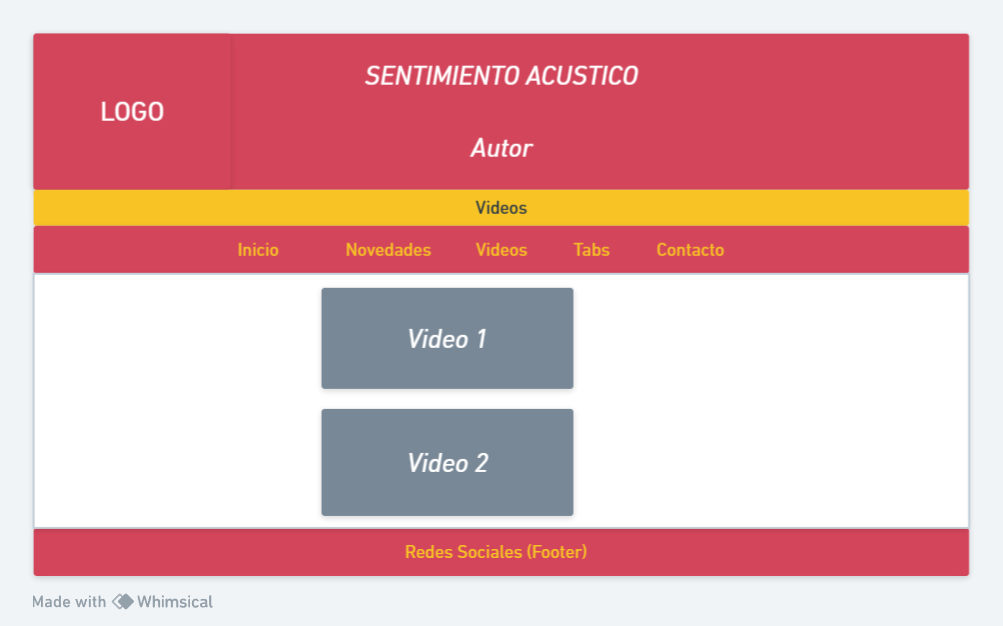
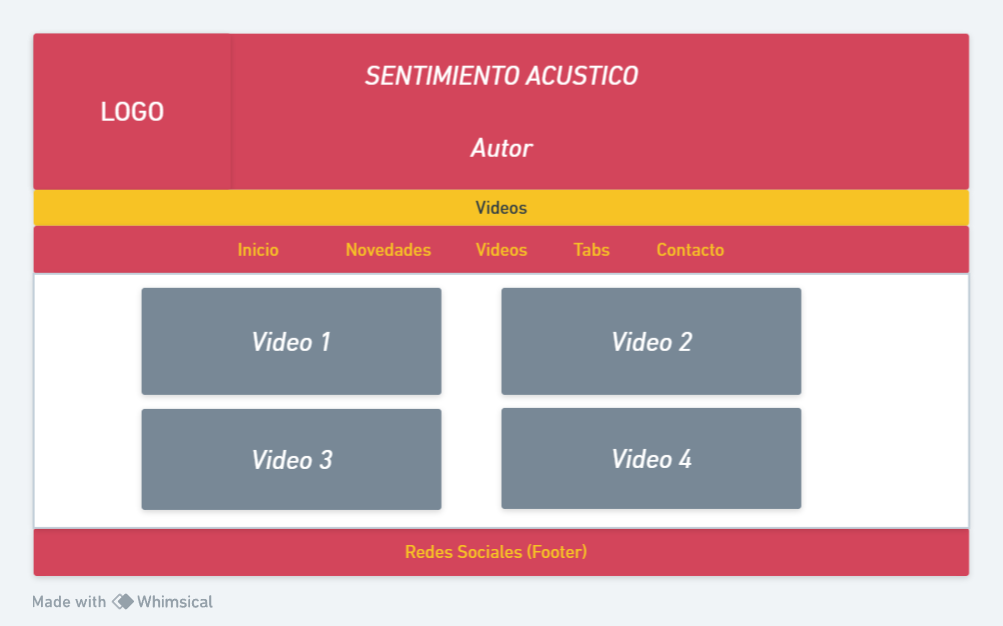
Quite espacios en blanco de entremedio

Changed region(s): [[0.1236, 0.4553, 0.8036, 0.8498]]

diff --git a/pages/Novedades.html b/pages/Novedades.html
@@ -17,12 +17,11 @@
         </a>
         <h1>Sentimiento Acustico</h1>
     </header>
-    <p>
-    <h3>Marcelo G. Gonzalez</h3>
-    </p>
+
+    <h2>Marcelo G. Gonzalez</h2>
 
     <section id=frase_inicial>
-        <p><strong>Novedades</strong></p>
+        <strong>Novedades</strong>
     </section>
 
     <section id="Menu">
@@ -43,13 +42,16 @@
         <h2>Novedad 1 ....</h2>
         <div class='novedades'>
             <img src="../images/figura2.png" alt="novedad 1" class="novedades-img">
+            <p>Descripcion.................</p>
         </div>
+
         <br>
         <br>
 
         <h2>Novedad 2 ....</h2>
         <div class='novedades'>
             <img src="../images/figura2.png" alt="novedad 2" class="novedades-img">
+            <p>Descripcion.................</p>
         </div>
         <br>
         <br>
@@ -64,7 +66,7 @@
         <div>
             <h3>@Sentimiento Acustico Arg.</h3>
             <a href="https://www.youtube.com/channel/UCXSYrY7EahzbqNEJzBlBVHA" target="_blank">
-                <img src="../images/youtube.png" width="30" alt="Youtube">
+                <img src="../images/youtube.png" width="40" alt="Youtube">
             </a> <!-- Blank, cuando cliqkee se abre en otra pestaña  -->
             <a href="https://www.instagram.com/sentimiento_acustico/?hl=es-la" target="_blank">
                 <img src="../images/instagram.png" width="30" alt="Instagram">

diff --git a/css/style.css b/css/style.css
@@ -1,7 +1,6 @@
 /* Index */
 
 #titulo_inicial {
-
     background-color: rgb(87, 38, 36);
     margin: 0;
     border: 0;
@@ -46,7 +45,6 @@ header h3 {
     background-image: rgb(87, 38, 36);
 }
 
-
 #frase_inicial {
     color: rgb(87, 38, 36);
     font-style: italic;
@@ -59,6 +57,7 @@ header h3 {
 }
 
 #Menu {
+
     nav {
         text-align: center;
         font-style: bold;
@@ -99,7 +98,6 @@ header h3 {
     }
 }
 
-
 body {
     margin: 0;
 }
@@ -115,14 +113,13 @@ h1 {
 }
 
 h2 {
-    color: rgb(87, 38, 36);
+    color: rgb(210, 202, 144);
+    background-color: rgb(87, 38, 36);
     font-size: 25px;
-    text-align: left;
     font-style: italic;
-    position: left;
     margin: 0;
     border: 0;
-    padding: 0;
+    padding-bottom: 30px;
 }
 
 h3 {
@@ -136,8 +133,6 @@ h3 {
     border: 0;
 }
 
-
-
 footer {
     background-color: rgb(87, 38, 36);
     color: rgb(210, 202, 144);
@@ -147,24 +142,21 @@ footer {
     line-height: 20px;
     margin: 0;
     border: 0;
-    padding: 0;
+    padding: 10px;
 }
 
 /* Novedades */
-
-
-.novedades {
-    display: flex;
-    max-width: 40%;
-    height: auto;
-    border: solid black;
-}
-
+.novedades,
 .novedades img {
     display: flex;
     max-width: 40%;
     height: auto;
-    border: solid black;
+    border: solid #000
+}
+
+h2 {
+    text-align: center;
+    height: auto;
 }
 
 .video-container {

diff --git a/pages/Tabs.html b/pages/Tabs.html
@@ -17,12 +17,11 @@
         </a>
         <h1>Sentimiento Acustico</h1>
     </header>
-    <p>
-    <h3>Marcelo G. Gonzalez</h3>
-    </p>
+
+    <h2>Marcelo G. Gonzalez</h2>
 
     <section id=frase_inicial>
-        <p><strong>Tabs</strong></p>
+        <strong>Tabs</strong>
     </section>
 
     <section id="Menu">
@@ -56,7 +55,8 @@
                 <td>Acoustic Guitar</td>
                 <td>Acoustic Guitar</td>
                 <td>
-                    <li><a href="#">Link Tab</a></li>
+                    <li><a href="https://drive.google.com/file/d/1nES5oXBQDzvcFXAEVKXpRSd7VRT1Q-iS/view?usp=drive_link">Link
+                            Tab</a></li>
                 </td>
             </tr>
         </table>
@@ -71,7 +71,7 @@
         <div>
             <h3>@Sentimiento Acustico Arg.</h3>
             <a href="https://www.youtube.com/channel/UCXSYrY7EahzbqNEJzBlBVHA" target="_blank">
-                <img src="../images/youtube.png" width="30" alt="Youtube">
+                <img src="../images/youtube.png" width="40" alt="Youtube">
             </a> <!-- Blank, cuando cliqkee se abre en otra pestaña  -->
             <a href="https://www.instagram.com/sentimiento_acustico/?hl=es-la" target="_blank">
                 <img src="../images/instagram.png" width="30" alt="Instagram">

diff --git a/index.html b/index.html
@@ -19,13 +19,11 @@
         </a>
         <h1>Sentimiento Acustico</h1>
     </header>
-    <p>
-    <h3>Marcelo G. Gonzalez</h3>
-    </p>
+
+    <h2>Marcelo G. Gonzalez</h2>
 
     <section id=frase_inicial>
-        <strong>Frase a completar....
-        </strong>
+        <strong>Frase a completar....</strong>
     </section>
 
     <section id="Menu">
@@ -51,7 +49,7 @@
         <div>
             <h3>@Sentimiento Acustico Arg.</h3>
             <a href="https://www.youtube.com/channel/UCXSYrY7EahzbqNEJzBlBVHA" target="_blank">
-                <img src="./images/youtube.png" width="30" alt="Youtube">
+                <img src="./images/youtube.png" width="40" alt="Youtube">
             </a> <!-- Blank, cuando cliqkee se abre en otra pestaña  -->
             <a href="https://www.instagram.com/sentimiento_acustico/?hl=es-la" target="_blank">
                 <img src="./images/instagram.png" width="30" alt="Instagram">

diff --git a/pages/Contacto.html b/pages/Contacto.html
@@ -17,12 +17,11 @@
         </a>
         <h1>Sentimiento Acustico</h1>
     </header>
-    <p>
-    <h3>Marcelo G. Gonzalez</h3>
-    </p>
+
+    <h2>Marcelo G. Gonzalez</h2>
 
     <section id=frase_inicial>
-        <p><strong>Contacto</strong></p>
+        <strong>Contacto</strong>
     </section>
 
     <section id="Menu">
@@ -59,7 +58,7 @@
         <div>
             <h3>@Sentimiento Acustico Arg.</h3>
             <a href="https://www.youtube.com/channel/UCXSYrY7EahzbqNEJzBlBVHA" target="_blank">
-                <img src="../images/youtube.png" width="30" alt="Youtube">
+                <img src="../images/youtube.png" width="40" alt="Youtube">
             </a> <!-- Blank, cuando cliqkee se abre en otra pestaña  -->
             <a href="https://www.instagram.com/sentimiento_acustico/?hl=es-la" target="_blank">
                 <img src="../images/instagram.png" width="30" alt="Instagram">

diff --git a/pages/Videos.html b/pages/Videos.html
@@ -17,12 +17,11 @@
         </a>
         <h1>Sentimiento Acustico</h1>
     </header>
-    <p>
-    <h3>Marcelo G. Gonzalez</h3>
-    </p>
+
+    <h2>Marcelo G. Gonzalez</h2>
 
     <section id=frase_inicial>
-        <p><strong>Videos</strong></p>
+        <strong>Videos</strong>
     </section>
 
     <section id="Menu">
@@ -68,7 +67,7 @@
         <div>
             <h3>@Sentimiento Acustico Arg.</h3>
             <a href="https://www.youtube.com/channel/UCXSYrY7EahzbqNEJzBlBVHA" target="_blank">
-                <img src="../images/youtube.png" width="30" alt="Youtube">
+                <img src="../images/youtube.png" width="40" alt="Youtube">
             </a> <!-- Blank, cuando cliqkee se abre en otra pestaña  -->
             <a href="https://www.instagram.com/sentimiento_acustico/?hl=es-la" target="_blank">
                 <img src="../images/instagram.png" width="30" alt="Instagram">
